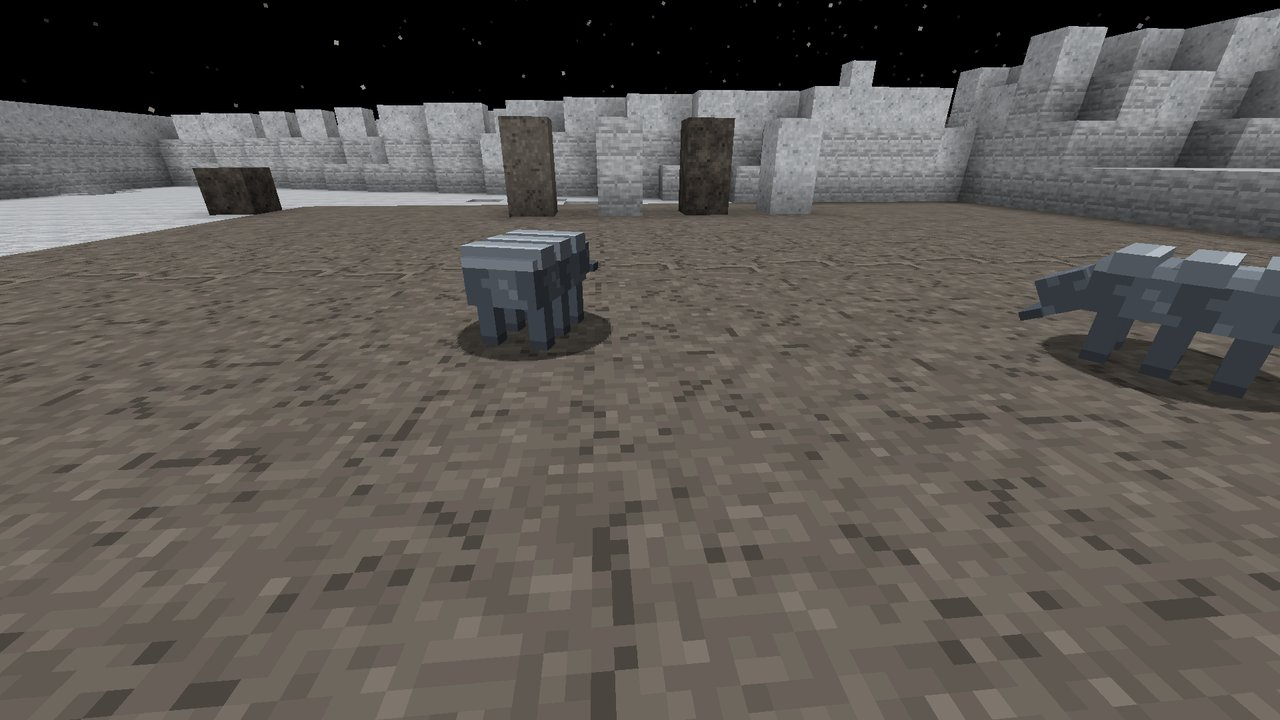
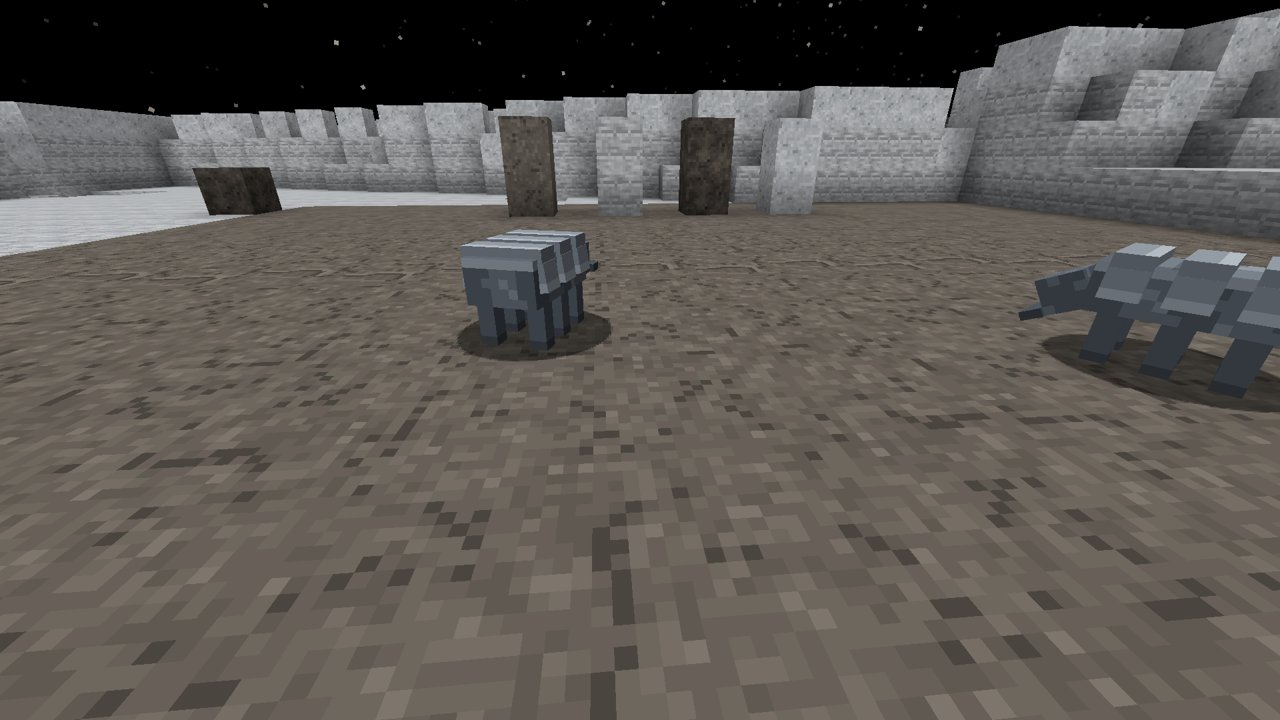
Groove grazer touch-up: band skirts on the flanks
Each armour band now wraps down the flanks as a skirt standing a little
proud of the body, with a frost-pale lower edge, so the sides are no
longer flat boxes. Before/after and Ganymede frames.

diff --git a/src/main/java/com/pizzaparker07/spacebreaker/client/jupiter/GrooveGrazerModel.java b/src/main/java/com/pizzaparker07/spacebreaker/client/jupiter/GrooveGrazerModel.java
@@ -36,8 +36,13 @@ public class GrooveGrazerModel extends HierarchicalModel<GrooveGrazer> {
         PartDefinition body = root.addOrReplaceChild("body", CubeListBuilder.create().texOffs(0, 0).addBox(-4F, -5F, -7F, 8F, 5F, 14F),
                 PartPose.offset(0F, 19F, 0F));
         for (int i = 0; i < 3; i++) {
-            body.addOrReplaceChild("plate" + i, CubeListBuilder.create().texOffs(0, 19).addBox(-4.5F, -1F, -1.5F, 9F, 2F, 3F),
+            PartDefinition plate = body.addOrReplaceChild("plate" + i, CubeListBuilder.create().texOffs(0, 19).addBox(-4.5F, -1F, -1.5F, 9F, 2F, 3F),
                     PartPose.offset(0F, -5F, -4.5F + i * 4.5F));
+            // each band wraps down the flanks as a skirt that stands a little proud of the body, so the sides are not flat
+            plate.addOrReplaceChild("skirt_left", CubeListBuilder.create().texOffs(0, 24).addBox(0F, 0F, -1.5F, 1F, 3F, 3F),
+                    PartPose.offsetAndRotation(3.6F, 0.5F, 0F, 0F, 0F, -0.12F));
+            plate.addOrReplaceChild("skirt_right", CubeListBuilder.create().texOffs(0, 24).mirror().addBox(-1F, 0F, -1.5F, 1F, 3F, 3F),
+                    PartPose.offsetAndRotation(-3.6F, 0.5F, 0F, 0F, 0F, 0.12F));
         }
         PartDefinition head = root.addOrReplaceChild("head", CubeListBuilder.create().texOffs(44, 0).addBox(-3F, -2F, -4F, 6F, 4F, 4F),
                 PartPose.offset(0F, 17F, -7F));

diff --git a/tools/textures/modules/jupiter.py b/tools/textures/modules/jupiter.py
@@ -399,6 +399,8 @@ def groove_grazer():
     paint(cv, 44, 0, 6, 4, 4, head)
     paint(cv, 24, 19, 7, 1, 2, lambda f, x, y, fw, fh: r[1] if f != 'top' else r[2])
     paint(cv, 44, 8, 2, 5, 2, lambda f, x, y, fw, fh: r[1] if y >= fh - 1 else r[2])
+    # band skirts down the flanks: armour tone with a frost-pale lower edge
+    paint(cv, 0, 24, 1, 3, 3, lambda f, x, y, fw, fh: r[5] if (y == fh - 1 and f not in ('top', 'bottom')) else noise_pick(r, 4, n, x + 7, y + 44))
     return cv
 
 
